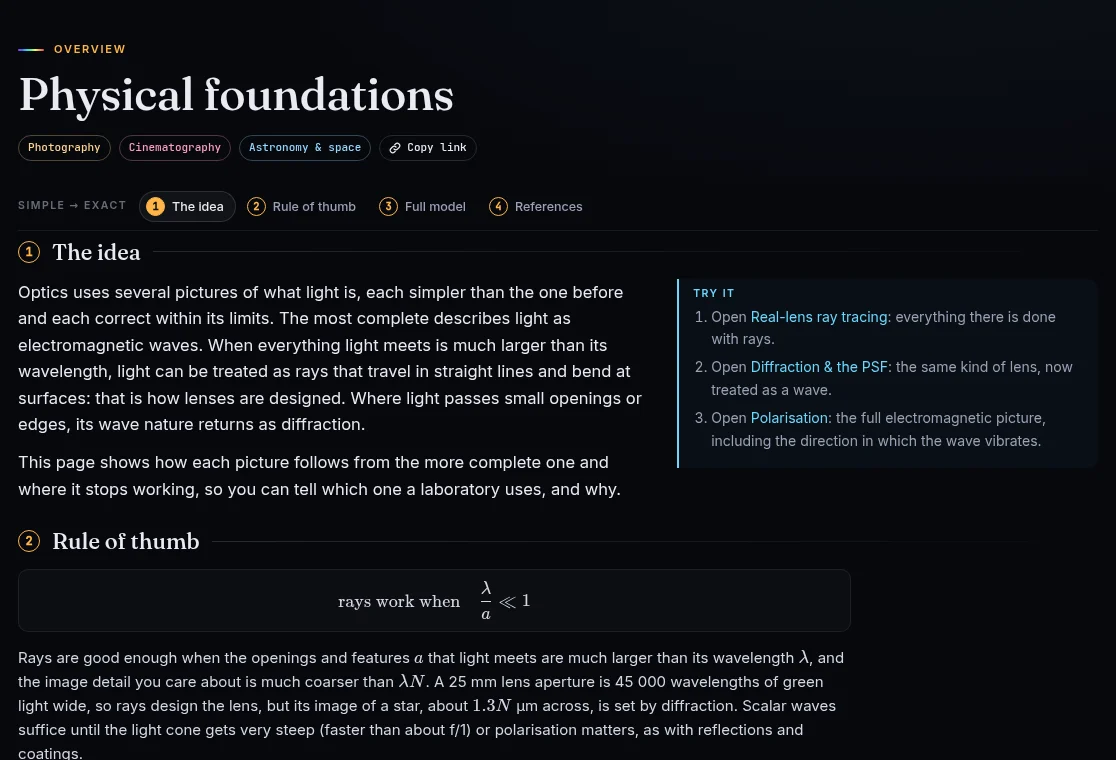
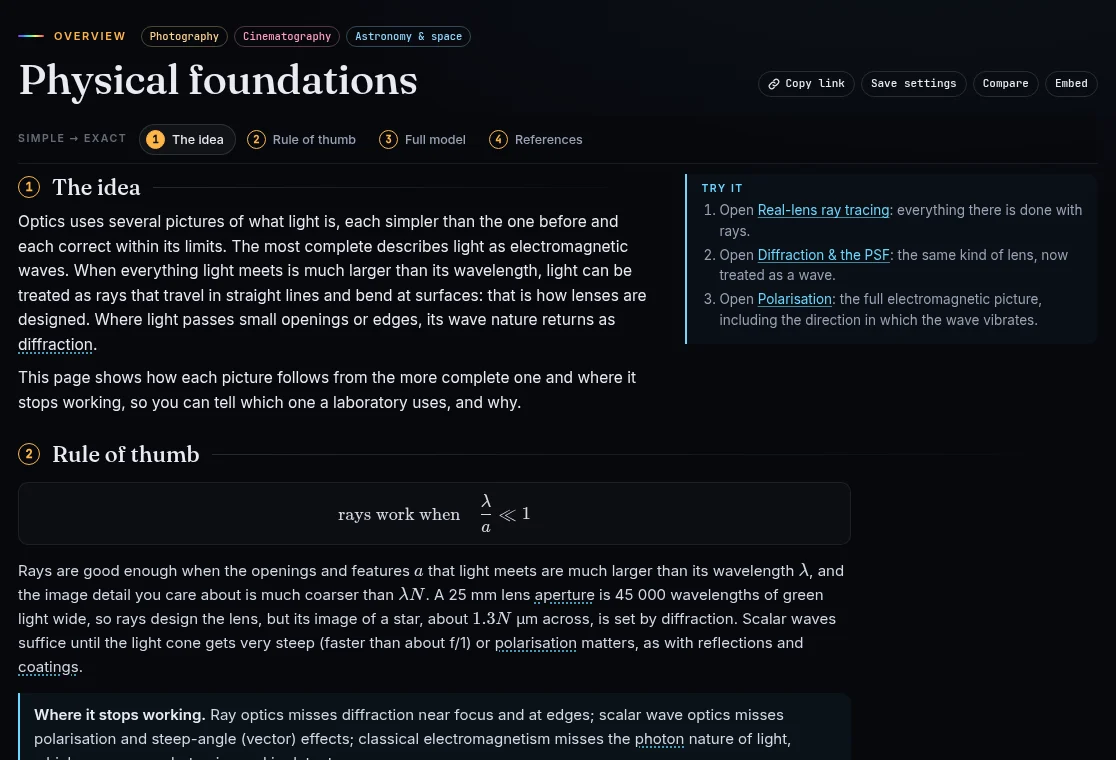
feat(layout): the simulation starts on the first screen (#253)
The page head is one compact block with the tools in a row beside the
title. From 1600 px the idea, things to try, intuition check and tour form
a column beside the simulation; below that they stay above it in a shorter
block (check folded to its question, tour under the idea's text). At
1440 px the picture starts 517 px down instead of about 830. The smoke
test checks the layout at 1920 and 1440 px.

diff --git a/css/style.css b/css/style.css
@@ -84,12 +84,17 @@ main { min-width: 0; padding: 0 clamp(16px, 3.2vw, 48px) 80px; outline: none; }
 .page { max-width: 1320px; margin: 0 auto; animation: fade .35s ease; }
 @keyframes fade { from { opacity: 0; transform: translateY(6px); } to { opacity: 1; transform: none; } }
 
-.mod-head { padding: 44px 0 22px; position: relative; }
+.mod-head { padding: 26px 0 14px; position: relative; display: flex; flex-wrap: wrap; align-items: flex-end; justify-content: space-between; gap: 12px 24px; }
+.head-main { min-width: 0; flex: 1 1 420px; }
+.head-top { display: flex; flex-wrap: wrap; align-items: center; gap: 8px 14px; }
 .eyebrow { font: 600 11px/1 var(--font-sans); letter-spacing: 0.16em; text-transform: uppercase; color: var(--accent); display: flex; align-items: center; gap: 10px; }
 .eyebrow::before { content: ''; width: 26px; height: 2px; background: var(--spectrum); border-radius: 2px; }
-.mod-head h1 { font: 400 clamp(30px, 4vw, 46px)/1.08 var(--font-serif); margin: 14px 0 12px; letter-spacing: -0.01em; }
+.mod-head h1 { font: 400 clamp(28px, 3.4vw, 42px)/1.08 var(--font-serif); margin: 10px 0 0; letter-spacing: -0.01em; }
 .lede { color: var(--fg-dim); font-size: 16.5px; max-width: 78ch; margin: 0; }
-.tags { display: flex; gap: 8px; margin-top: 16px; flex-wrap: wrap; }
+.mod-head .lede { margin-top: 10px; }
+.tags { display: flex; gap: 6px; flex-wrap: wrap; }
+.tags.domains .tag { padding: 4px 8px; font-size: 10.5px; }
+.tags.tools { flex: 0 1 auto; min-width: 0; padding-bottom: 5px; }
 .tag { font: 500 11px/1 var(--font-mono); padding: 6px 9px; border-radius: 99px; border: 1px solid var(--line-2); color: var(--fg-dim); }
 .tag.photo { color: #ffd38a; border-color: rgba(255, 211, 138, 0.3); }
 .tag.video { color: #ff9cc0; border-color: rgba(255, 156, 192, 0.3); }
@@ -344,20 +349,42 @@ canvas:focus-visible { outline-offset: -2px; }
 .rung-n.sim { border-color: var(--accent-2); color: var(--accent-2); font-size: 8px; }
 .ladder button.on .rung-n { background: var(--accent); color: #111; }
 .ladder button.on .rung-n.sim { background: var(--accent-2); }
-[data-rung] { scroll-margin-top: 58px; }
-.rung-idea { margin-top: 8px; }
-.idea { display: grid; grid-template-columns: minmax(0, 1.5fr) minmax(0, 1fr); gap: 18px 28px; align-items: start; }
-.idea-text { font-size: 16.5px; color: var(--fg); max-width: 70ch; }
+[data-rung], .lab .stage, .lab .controls { scroll-margin-top: 58px; } /* clear of the sticky strip */
+.rung-idea { margin: 10px 0 18px; }
+.idea { display: grid; grid-template-columns: minmax(0, 1.55fr) minmax(0, 1fr); gap: 14px 28px; align-items: start; }
+.idea-main > h2 { font: 500 22px/1.2 var(--font-serif); margin: 0 0 10px; display: flex; align-items: center; gap: 12px; }
+.idea-main > h2::after { content: ''; flex: 1; height: 1px; background: linear-gradient(90deg, var(--line-2), transparent); }
+.idea-side { display: grid; gap: 8px; min-width: 0; }
+.idea-text { font-size: 15.5px; line-height: 1.58; color: var(--fg); max-width: 72ch; }
+.idea-text p { margin-bottom: 9px; }
 .idea-text p:last-child { margin-bottom: 0; }
 .try { border-left: 2px solid var(--accent-2); background: rgba(106, 215, 255, 0.04); border-radius: 0 10px 10px 0; padding: 10px 14px; }
 .try .calc-title { color: var(--accent-2); }
-.try ol { margin: 6px 0 0; padding-left: 18px; font-size: 14px; color: var(--fg-dim); }
-.try li { margin: 6px 0; }
+.try ol { margin: 6px 0 0; padding-left: 18px; font-size: 13.5px; line-height: 1.5; color: var(--fg-dim); }
+.try li { margin: 4px 0; }
 .try li strong { color: var(--fg); }
 .calc-say { margin: 6px 0 4px; font-size: 14px; line-height: 1.5; color: var(--fg); }
 .calc-say:empty { display: none; }
+/* Wide screens: the idea becomes a column beside the first simulation, which starts right under the head */
+@media (min-width: 1600px) {
+  .page { max-width: 1640px; }
+  .page > :not(.mod-head, .ladder, .lab, .rung-idea) { max-width: 1320px; }
+  .page:has(> .rung-idea + .lab) { display: grid; grid-template-columns: clamp(270px, 17vw, 330px) minmax(0, 1fr); column-gap: 28px; align-items: start; }
+  .page:has(> .rung-idea + .lab) > * { grid-column: 1 / -1; min-width: 0; }
+  .page > .rung-idea:has(+ .lab) { grid-column: 1; position: sticky; top: 52px; max-height: calc(100vh - 60px); overflow-y: auto; scrollbar-width: thin; scrollbar-color: #222738 transparent; margin: 14px 0 0; padding-right: 4px; }
+  .page > .rung-idea + .lab { grid-column: 2; margin-top: 14px; }
+  .rung-idea:has(+ .lab) .idea { grid-template-columns: minmax(0, 1fr); gap: 10px; }
+  .rung-idea:has(+ .lab) :is(.idea-main, .idea-side) { display: contents; }
+  .rung-idea:has(+ .lab) .idea-main > h2 { margin: 0; }
+  .rung-idea:has(+ .lab) .idea-text { font-size: 15px; }
+  .rung-idea:has(+ .lab) .try { order: 1; }
+  .rung-idea:has(+ .lab) .check { order: 2; }
+  .rung-idea:has(+ .lab) .tour-offer { order: 3; margin: 0; }
+  .rung-idea:has(+ .lab) .tour-item { flex-wrap: wrap; }
+}
 @media (max-width: 860px) {
   .ladder { position: static; background: none; backdrop-filter: none; }
+  .head-top { padding-right: 52px; } /* clear of the menu button */
   .idea { grid-template-columns: minmax(0, 1fr); }
 }
 
@@ -409,11 +436,18 @@ button.term:hover, button.term:focus-visible { color: var(--accent-2); }
 .msummary { font: 400 20px/1.35 var(--font-serif); color: var(--fg); margin: 4px 0 8px; }
 
 /* Misconception checks */
-.check { border: 1px solid var(--line); border-radius: var(--radius); padding: 14px 16px; background: rgba(193, 140, 255, 0.04); }
-.check-k { font: 600 10.5px/1 var(--font-sans); letter-spacing: .14em; text-transform: uppercase; color: var(--accent-3); margin-bottom: 8px; }
-.check-q { margin: 0 0 10px; font-size: 15px; color: var(--fg); }
+.check { border: 1px solid var(--line); border-radius: 10px; padding: 8px 12px; background: rgba(193, 140, 255, 0.04); }
+.check summary { display: grid; grid-template-columns: minmax(0, 1fr) auto; gap: 4px 10px; align-items: start; cursor: pointer; list-style: none; }
+.check summary::-webkit-details-marker { display: none; }
+.check summary::after { content: '▸'; grid-column: 2; grid-row: 1 / span 2; align-self: center; color: var(--accent-3); transition: transform .15s; }
+.check[open] summary::after { transform: rotate(90deg); }
+.check summary:hover .check-q { color: var(--fg); }
+.check[open] summary { margin-bottom: 10px; }
+.check-k { display: block; font: 600 10.5px/1 var(--font-sans); letter-spacing: .14em; text-transform: uppercase; color: var(--accent-3); margin-bottom: 4px; }
+.check-q { grid-column: 1; margin: 0; font-size: 13.5px; line-height: 1.45; color: var(--fg-dim); }
+.check[open] .check-q { color: var(--fg); }
 .check-options { display: flex; flex-wrap: wrap; gap: 8px; }
-.check-option { padding: 8px 12px; border-radius: 10px; border: 1px solid var(--line-2); background: var(--panel-2); color: var(--fg); font: 500 13.5px var(--font-sans); cursor: pointer; text-align: left; }
+.check-option { padding: 6px 10px; border-radius: 10px; border: 1px solid var(--line-2); background: var(--panel-2); color: var(--fg); font: 500 13.5px var(--font-sans); cursor: pointer; text-align: left; }
 .check-option:hover:not(:disabled) { border-color: var(--accent-3); }
 .check-option:disabled { cursor: default; opacity: 0.75; }
 .check-option.right { border-color: var(--good); color: var(--good); opacity: 1; }
@@ -442,8 +476,11 @@ button.term:hover, button.term:focus-visible { color: var(--accent-2); }
 .st-btn:hover, .st-btn:focus-visible { color: var(--fg); border-color: var(--accent-2); }
 
 /* Guided tours */
-.tour-offer { border: 1px solid var(--line); border-radius: var(--radius); padding: 14px 16px; background: rgba(255, 181, 71, 0.04); }
-.tour-item { display: flex; align-items: center; justify-content: space-between; gap: 12px; flex-wrap: wrap; font-size: 14px; }
+.tour-offer { border: 1px solid var(--line); border-radius: 10px; padding: 8px 12px; background: rgba(255, 181, 71, 0.04); margin-top: 12px; }
+.tour-offer .check-k { color: var(--accent); }
+.tour-item { display: flex; align-items: center; justify-content: space-between; gap: 6px 12px; font-size: 13.5px; line-height: 1.4; }
+.tour-item + .tour-item { margin-top: 8px; }
+.tour-item .tour-btn { flex: 0 0 auto; }
 .tour-item + .tour-item { margin-top: 10px; }
 .tour-btn { padding: 7px 12px; border-radius: 10px; border: 1px solid var(--line-2); background: var(--panel-2); color: var(--fg); font: 500 13px var(--font-sans); cursor: pointer; }
 .tour-btn.primary { border-color: var(--accent); color: var(--accent); }
@@ -496,7 +533,7 @@ body.comparing { overflow: hidden; }
 .embed [data-rung="idea"], .embed [data-rung="rule"], .embed [data-rung="full"], .embed [data-rung="refs"],
 .embed .mod-head .tags, .embed .mod-head .share, .embed .mod-head .lede { display: none; }
 .embed main { padding: 0 16px 24px; }
-.embed .mod-head { padding-top: 14px; }
+.embed .mod-head { padding-top: 14px; display: block; }
 .embed .mod-head h1 { font-size: clamp(22px, 3vw, 30px); }
 .embed-open { display: inline-block; margin-top: 18px; font-size: 13px; color: var(--accent); }
 

diff --git a/js/lib/page.js b/js/lib/page.js
@@ -59,17 +59,21 @@ function compare(meta, opener) {
   closeBtn.focus();
 }
 
+// The page head: group, the fields the page serves, title and summary on the left; the page tools in
+// one row on the right (they wrap below the title on narrow screens).
 export function header(meta) {
   return h('header.mod-head', {},
-    h('div.eyebrow', {}, meta.group),
-    h('h1', {}, meta.title),
-    meta.lede ? h('p.lede', {}, meta.lede) : null,
-    h('div.tags', {}, ...(meta.domains || []).map((d) => h('span.tag.' + d, {}, t(TAG[d] || d))),
+    h('div.head-main', {},
+      h('div.head-top', {}, h('div.eyebrow', {}, meta.group),
+        h('div.tags.domains', {}, ...(meta.domains || []).map((d) => h('span.tag.' + d, {}, t(TAG[d] || d))))),
+      h('h1', {}, meta.title),
+      meta.lede ? h('p.lede', {}, meta.lede) : null),
+    h('div.tags.tools', {},
       h('button.tag.share', { type: 'button', title: t('Copy a link to this page with the current settings'), onClick: (e) => copyLink(e.currentTarget.querySelector('span')),
-        html: '<svg width="12" height="12" viewBox="0 0 24 24" fill="none" stroke="currentColor" stroke-width="2.4" stroke-linecap="round" aria-hidden="true"><path d="M10 14a5 5 0 0 0 7.07 0l3-3a5 5 0 0 0-7.07-7.07l-1.5 1.5"/><path d="M14 10a5 5 0 0 0-7.07 0l-3 3a5 5 0 0 0 7.07 7.07l1.5-1.5"/></svg><span>' + t('Copy link') + '</span>' })),
+        html: '<svg width="12" height="12" viewBox="0 0 24 24" fill="none" stroke="currentColor" stroke-width="2.4" stroke-linecap="round" aria-hidden="true"><path d="M10 14a5 5 0 0 0 7.07 0l3-3a5 5 0 0 0-7.07-7.07l-1.5 1.5"/><path d="M14 10a5 5 0 0 0-7.07 0l-3 3a5 5 0 0 0 7.07 7.07l1.5-1.5"/></svg><span>' + t('Copy link') + '</span>' }),
       h('button.tag.share', { type: 'button', title: t('Save the current settings of this page as a JSON file'), onClick: () => saveSettings(meta) }, t('Save settings')),
       h('button.tag.share.compare-btn', { type: 'button', title: t('Open two copies of this laboratory side by side to compare two settings'), onClick: (e) => compare(meta, e.currentTarget) }, t('Compare')),
-      h('button.tag.share.embed-code', { type: 'button', title: t('Copy HTML that embeds this laboratory, with its current settings, in a course page or blog'), onClick: (e) => copyLink(e.currentTarget, embedCode(location.href, meta.title), t('Embed code copied ✓')) }, t('Embed')),
+      h('button.tag.share.embed-code', { type: 'button', title: t('Copy HTML that embeds this laboratory, with its current settings, in a course page or blog'), onClick: (e) => copyLink(e.currentTarget, embedCode(location.href, meta.title), t('Embed code copied ✓')) }, t('Embed'))),
   );
 }
 
@@ -98,10 +102,15 @@ export function lab(main, side, wide = false) {
 // A page reads from simple to exact: ① the idea in plain words (with things to try), the
 // simulation, ② a rule of thumb that says where it stops working, ③ the full model, ④ references.
 // Every rung is visible; ladder() adds the numbers and a strip to jump between them.
+// The idea is kept short so the simulation starts on the first screen: the text on the left, and on
+// the right the things to try, then the intuition check and the guided tours (added by the router).
+// On very wide screens the whole section becomes a column beside the simulation (see CSS).
 export function idea(html, tries = []) {
-  return h('section.block.rung-idea', { 'data-rung': 'idea' }, h('h2', {}, t('The idea')),
-    h('div.idea', {}, prose(html, 'idea-text'),
-      tries.length ? h('div.try', {}, h('div.calc-title', {}, t('Try it')), h('ol', {}, ...tries.map((t) => h('li', { html: t })))) : null));
+  return h('section.block.rung-idea', { 'data-rung': 'idea' },
+    h('div.idea', {},
+      h('div.idea-main', {}, h('h2', {}, t('The idea')), prose(html, 'idea-text')),
+      h('div.idea-side', {},
+        tries.length ? h('div.try', {}, h('div.calc-title', {}, t('Try it')), h('ol', {}, ...tries.map((t) => h('li', { html: t })))) : null)));
 }
 
 export function rule(html, limits) {
@@ -130,7 +139,7 @@ export function ladder(page) {
   let n = 0;
   const items = rungs.map((el) => {
     const k = el.dataset.rung, num = k === 'sim' ? null : String(++n);
-    const h2 = el.querySelector(':scope > h2');
+    const h2 = el.querySelector(':scope > h2, :scope > .idea > .idea-main > h2');
     if (num && h2) h2.prepend(h('span.rung-n', { 'aria-hidden': 'true' }, num));
     const b = h('button', { type: 'button', onClick: () => el.scrollIntoView({ behavior: 'smooth', block: 'start' }) },
       num ? h('span.rung-n', { 'aria-hidden': 'true' }, num) : h('span.rung-n.sim', { 'aria-hidden': 'true' }, '▶'), t(RUNGS[k]));
@@ -173,7 +182,7 @@ export function missionStep(n, title, lab, labTitle) {
   return { el, set: ({ answer: a, why: w, tex: t }) => { answer.innerHTML = a; why.innerHTML = w; if (t) setTex(eq, t, true); else eq.replaceChildren(); } };
 }
 
-// Misconception check: a question answered before the explanation is shown. Inserted after the
+// Misconception check: a question answered before the explanation is shown. Placed beside the
 // idea on laboratories listed in misconceptions.js.
 export function misconception(page, id, checks) {
   const c = checks[id];
@@ -185,5 +194,8 @@ export function misconception(page, id, checks) {
     if (i !== c.answer) e.currentTarget.classList.add('wrong');
     why.innerHTML = `<strong>${i === c.answer ? t('Right.') : t('Not quite.')}</strong> ` + c.why;
   } }, o)));
-  idea.after(h('section.block.check', { 'aria-label': t('Check your intuition') }, h('div.check-k', {}, t('Check your intuition')), h('p.check-q', {}, c.q), list, why));
+  // folded: the question shows, the options open on demand, so the simulation stays on the first screen
+  const box = h('details.check', {},
+    h('summary', {}, h('span.check-k', {}, t('Check your intuition')), h('span.check-q', {}, c.q)), list, why);
+  (idea.querySelector('.idea-side') || idea).append(box);
 }

diff --git a/js/lib/tours.js b/js/lib/tours.js
@@ -105,11 +105,12 @@ function play(page, tour) {
 export function tours(page, id, wanted) {
   const mine = TOURS.filter((tour) => tour.lab === id);
   if (!mine.length) return () => {};
-  const box = h('section.block.tour-offer', { 'aria-label': t('Guided tours') }, h('div.check-k', {}, t('Guided tour')),
+  const box = h('section.tour-offer', { 'aria-label': t('Guided tours') }, h('div.check-k', {}, t('Guided tour')),
     ...mine.map((tour) => h('div.tour-item', {}, h('div', {}, h('b', {}, t(tour.title)), h('span.note', {}, ' ' + t(tour.blurb))),
       h('button.tour-btn.primary', { type: 'button', onClick: () => play(page, tour) }, t('Start ({n} steps)', { n: tour.steps.length })))));
-  const anchor = page.querySelector('.check') || page.querySelector('.rung-idea') || page.querySelector('.mod-head');
-  anchor?.after(box);
+  // under the idea's text (the intuition check sits under the things to try), so both columns stay short
+  const main = page.querySelector('.rung-idea .idea-main');
+  if (main) main.append(box); else page.querySelector('.mod-head')?.after(box);
   const want = mine.find((tour) => tour.id === wanted);
   // let the controls and first results settle before the tour moves them
   const timer = want ? setTimeout(() => play(page, want), 300) : 0;

diff --git a/README.md b/README.md
@@ -71,7 +71,7 @@ flowchart LR
     style C fill:#221a2e,stroke:#c18cff,color:#fff
 ```
 
-**From the simple idea to the full model.** Readers come with very different backgrounds, so a page climbs from simple to exact instead of offering a beginner/expert switch. ① *The idea* explains the phenomenon in plain words, without symbols, and suggests two or three things to try (predict first, then check). Then comes the simulation, whose live calculation starts with the result in a sentence. ② *Rule of thumb* gives the one formula worth remembering, a worked number and where it stops working. ③ *Full model* is the derivation, and ④ the references. A strip under the title jumps between the steps, so experts can go straight to the derivation. Every laboratory and the physical-foundations page use this ladder, and ten laboratories add a "Check your intuition" question about a common misconception, answered before the explanation appears. New to optics? The home page's **Start here** path suggests 17 laboratories in order, from why selfies distort faces to how we could photograph another Earth. Technical terms are explained where they first appear: hover over or tap a dotted-underlined word for a one-sentence definition and a link to the laboratory that simulates it.
+**From the simple idea to the full model.** Readers come with very different backgrounds, so a page climbs from simple to exact instead of offering a beginner/expert switch. ① *The idea* explains the phenomenon in plain words, without symbols, and suggests two or three things to try (predict first, then check). Then comes the simulation, whose live calculation starts with the result in a sentence. ② *Rule of thumb* gives the one formula worth remembering, a worked number and where it stops working. ③ *Full model* is the derivation, and ④ the references. A strip under the title jumps between the steps, so experts can go straight to the derivation. The simulation starts on the first screen: on wide screens (from 1600 px) the idea is a column beside it, on narrower ones a short block above it. Every laboratory and the physical-foundations page use this ladder, and ten laboratories add a "Check your intuition" question about a common misconception beside the idea, answered before the explanation appears. New to optics? The home page's **Start here** path suggests 17 laboratories in order, from why selfies distort faces to how we could photograph another Earth. Technical terms are explained where they first appear: hover over or tap a dotted-underlined word for a one-sentence definition and a link to the laboratory that simulates it.
 
 <img src="docs/screenshots/dof-ladder.webp" alt="Depth-of-field page: the ladder strip (The idea, Simulation, Rule of thumb, Full model, References) above a plain-language explanation and three things to try">
 

diff --git a/ROADMAP.md b/ROADMAP.md
@@ -564,7 +564,7 @@ Candidates, in order of how much the third dimension adds:
 *Goal: show the simulations as well as they are computed. From a visual review of the home page, four laboratories, the gallery and a phone view in November 2026; order agreed with the owner (2026-11-10): the first three items first.*
 
 - [x] **P1 · S** **Vendored typefaces**: Fraunces, Inter and JetBrains Mono are served from the site (`vendor/fonts/`), with a true italic for Fraunces. No request leaves the page any more.
-- [ ] **P1 · M** **Stage-first laboratory layout**: the picture and its controls fill the first screen, the plain-words idea sits beside them, and the page tools take one row.
+- [x] **P1 · M** **Stage-first laboratory layout**: the picture and its controls start on the first screen and the page tools take one row. *From 1600 px the idea, the things to try, the intuition check and the tour are a column beside the simulation; below that they stay above it in a shorter block (three columns would shrink the picture by a third).*
 - [ ] **P1 · M** **Chart redesign**: larger charts, legends outside the plot area, and a hover readout linked to the picture.
 - [ ] **P1 · L** **Image pipeline**: one shared path that renders at device pixels, shows a fast preview and refines when idle, with one tone curve, dithering, and wide-gamut output where the screen supports it.
 - [ ] **P2 · M** **Live home page**: a thumbnail of the real render on every card, a few featured laboratories shown large, and a hero that can be dragged.

diff --git a/CHANGELOG.md b/CHANGELOG.md
@@ -7,6 +7,7 @@ The format follows [Keep a Changelog](https://keepachangelog.com/en/1.1.0/), and
 ## [Unreleased]
 
 ### Changed
+- **The simulation starts on the first screen.** A laboratory's head is one compact block: group and fields above the title, the page tools (copy link, save settings, compare, embed) in one row beside it. On screens 1600 px and wider the idea, the things to try, the intuition check and the guided tour form a column beside the simulation, which starts right under the head and stays in view with the controls. On narrower screens the idea stays above the simulation but is shorter: the intuition check sits under the things to try, folded to its question (the answers open on a click), and the guided tour sits under the idea's text. At 1440 px the picture now starts 517 px down instead of about 830. The tour no longer scrolls the picture under the sticky strip. The smoke test checks the layout at 1920 and 1440 px.
 - The typefaces (Fraunces, Inter, JetBrains Mono) are served from the site itself (`vendor/fonts/`, variable fonts from the `@fontsource-variable` packages, SIL Open Font License) instead of Google Fonts. The page no longer contacts any other host, the fonts are part of the offline cache from the first visit, and the two used first are preloaded. The italic in the home page's title is now the real Fraunces italic rather than a slanted roman. `test/fonts.test.mjs` checks the files' checksums and that the page loads nothing from elsewhere.
 
 ## [1.35.0] - 2026-11-10
